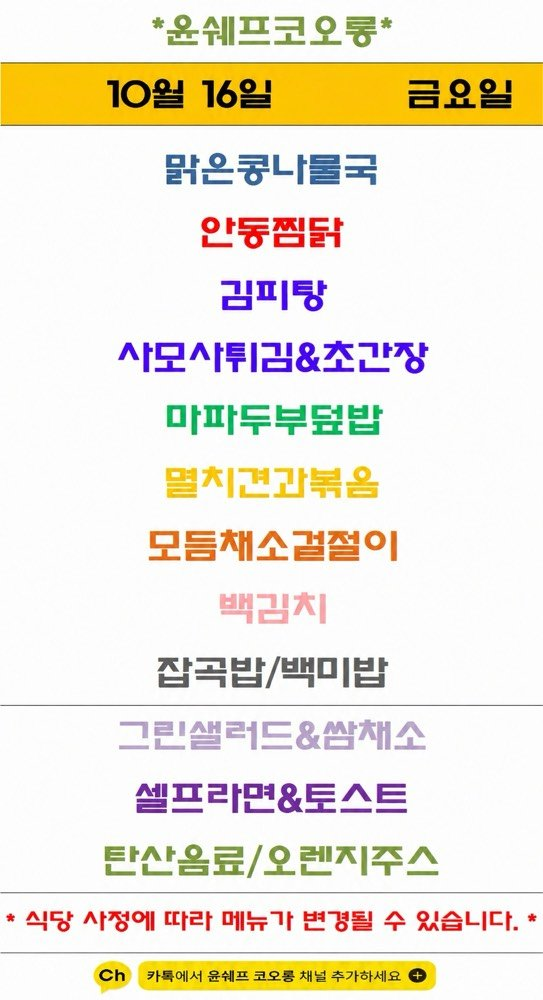
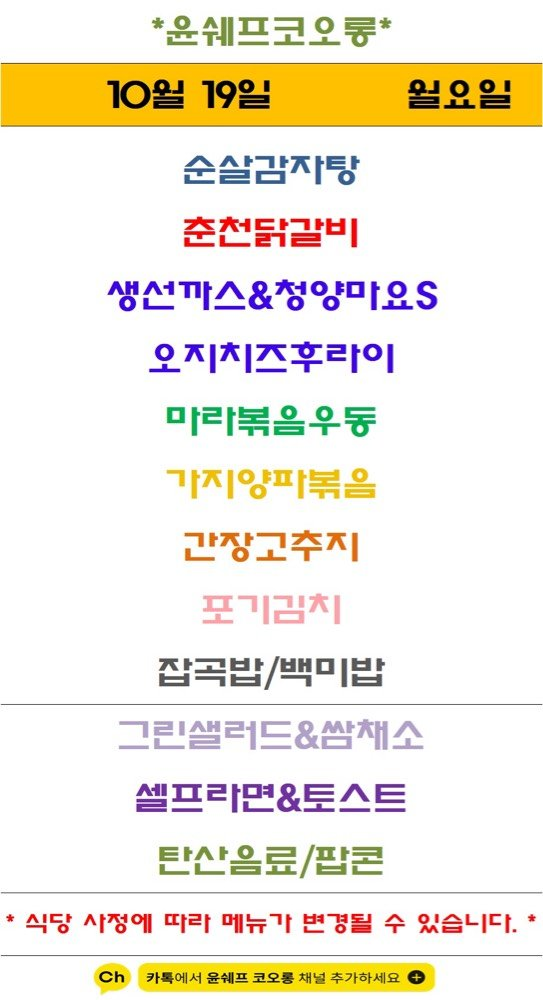
Update menu board assets

diff --git a/guro-menu/index.html b/guro-menu/index.html
@@ -32,7 +32,7 @@
   </header>
   <section class="meta">
     <div><small>기준 날짜</small><strong>2026년 10월 19일 월요일</strong></div>
-    <div><small>최종 갱신</small><strong>2026-10-19 09:13:35</strong></div>
+    <div><small>최종 갱신</small><strong>2026-10-19 09:18:29</strong></div>
     <div><small>등록 식당</small><strong>5개</strong></div>
   </section>
   <div class="notice">공개 카카오 채널의 메뉴 이미지를 자동 수집하고 OCR로 정리합니다. 텍스트에 오타가 있을 수 있으니 식단 이미지를 함께 확인해 주세요.</div>
@@ -103,8 +103,8 @@
           <a class="channel" href="https://pf.kakao.com/_Xxhxkhs" target="_blank" rel="noopener">원본 채널</a>
         </div>
         <img class="menu-image" src="./images/yoon-chef-kolon.png" alt="윤쉐프 코오롱 식단 이미지" loading="lazy">
-        <p class="message">최신 공개 식단 이미지의 텍스트입니다. 날짜는 원본 이미지를 확인해 주세요.</p>
-        <ul><li>맑은콩나물국</li><li>안동찜닭</li><li>권피탕</li><li>사모사투김&amp;조관장</li><li>마파두부덮밥</li><li>모듬채소결절이</li><li>잡곡밥/백미밥</li><li>그린샐러드&amp;쌈채소</li><li>셀프라면&amp;토스트</li><li>탄슨「옴료/오렌지주스</li></ul>
+        
+        <ul><li>순살감자탕</li><li>준전닭갈비</li><li>생선까스&amp;정양마요6</li><li>오지치즈후라이</li><li>마라볶음우동</li><li>간장고추지</li><li>잡곡밥/백미밥</li><li>그린샐러드&amp;쌈채소</li><li>셀프라면&amp;토스트</li><li>탄산음료/팝콘</li></ul>
       </article>
   </section>
   <section class="seo" aria-label="검색 정보">한신IT타워 구내식당 자연푸드 구내식당 더이츠푸드 벽산더이룸 윤쉐프 코오롱 한신IT타워 벽산디지털밸리7차 대륭포스트타워1차 벽산디지털밸리1차 코오롱싸이언스밸리1차 서울 구로구 디지털로 272 한신IT타워 지하1층 서울 구로구 디지털로33길 50 벽산디지털밸리7차 지하1층 서울 구로구 디지털로 288 대륭포스트타워1차 지하1층 서울 구로구 디지털로27길 24 벽산디지털밸리1차 지하1층 서울 구로구 디지털로34길 43 코오롱싸이언스밸리1차 지하1층</section>

diff --git a/menu-today/index.html b/menu-today/index.html
@@ -209,7 +209,7 @@
 
     <section class="meta-bar">
       <div class="meta-card"><div class="meta-label">기준 날짜</div><div class="meta-value">2026년 10월 19일 월요일</div></div>
-      <div class="meta-card"><div class="meta-label">최종 가져온 시간</div><div class="meta-value">2026-10-19 09:13:21</div></div>
+      <div class="meta-card"><div class="meta-label">최종 가져온 시간</div><div class="meta-value">2026-10-19 09:18:17</div></div>
       <div class="meta-card"><div class="meta-label">확인 완료</div><div class="meta-value">9개 식당</div></div>
       <div class="meta-card"><div class="meta-label">준비중</div><div class="meta-value">3개 채널</div></div>
     </section>
@@ -225,7 +225,7 @@
             <div class="sub">현대테라타워 가산DK</div>
           </div>
         </div>
-        <div class="menu-inline-image"><img src="./images/imeal.png" alt="아이밀 식단 이미지"></div><ul><li>청양콩나물국</li><li>제육볶음</li><li>생선까스 / 타르타르</li><li>궁중떡볶이</li><li>까리고추멸치볶음</li><li>실곤약무침</li><li>상추겉절이</li><li>가든샐러드</li><li>포기김치</li><li>백미밥 / 흑미밥</li><li>주 떠부</li><li>타사을료</li><li>으 으 L</li></ul>
+        <div class="menu-inline-image"><img src="./images/imeal.png" alt="아이밀 식단 이미지"></div><ul><li>청양콩나물국</li><li>제육볶음</li><li>생선까스 / 타르타르S</li><li>궁중떡볶이</li><li>까리고추멸치볶음</li><li>실곤약무침</li><li>상추겉절이</li><li>가든샐러드</li><li>포기김치</li><li>백미밥 / 흑미밥</li><li>주 떠부</li><li>타사을료</li><li>으 으 L</li></ul>
       </article>
 
       <article class="restaurant-card">
